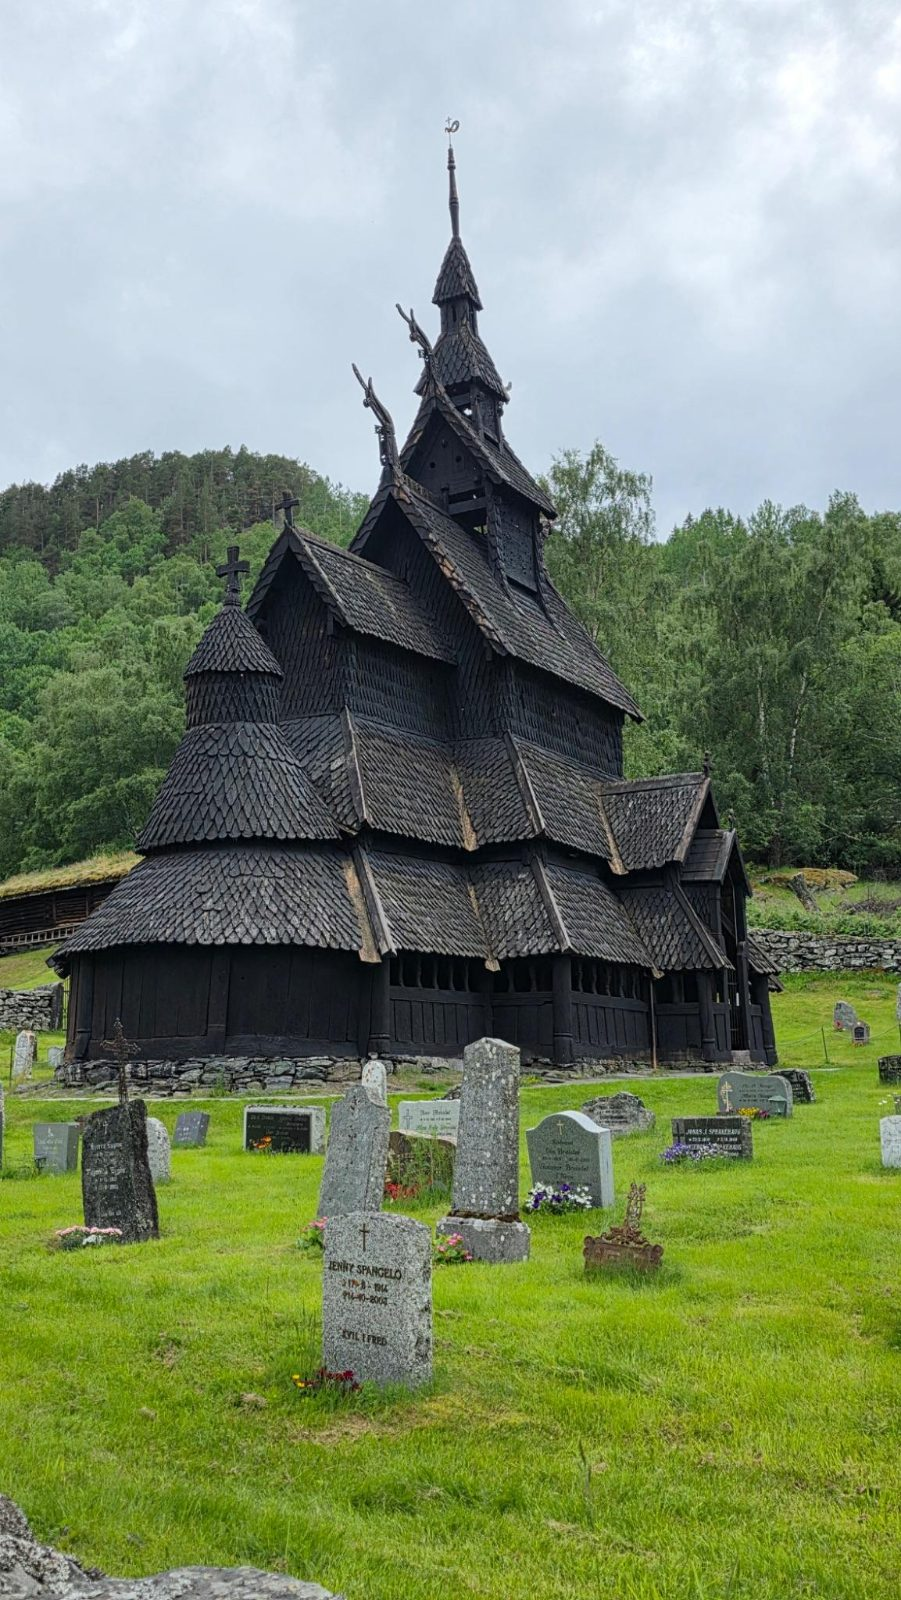
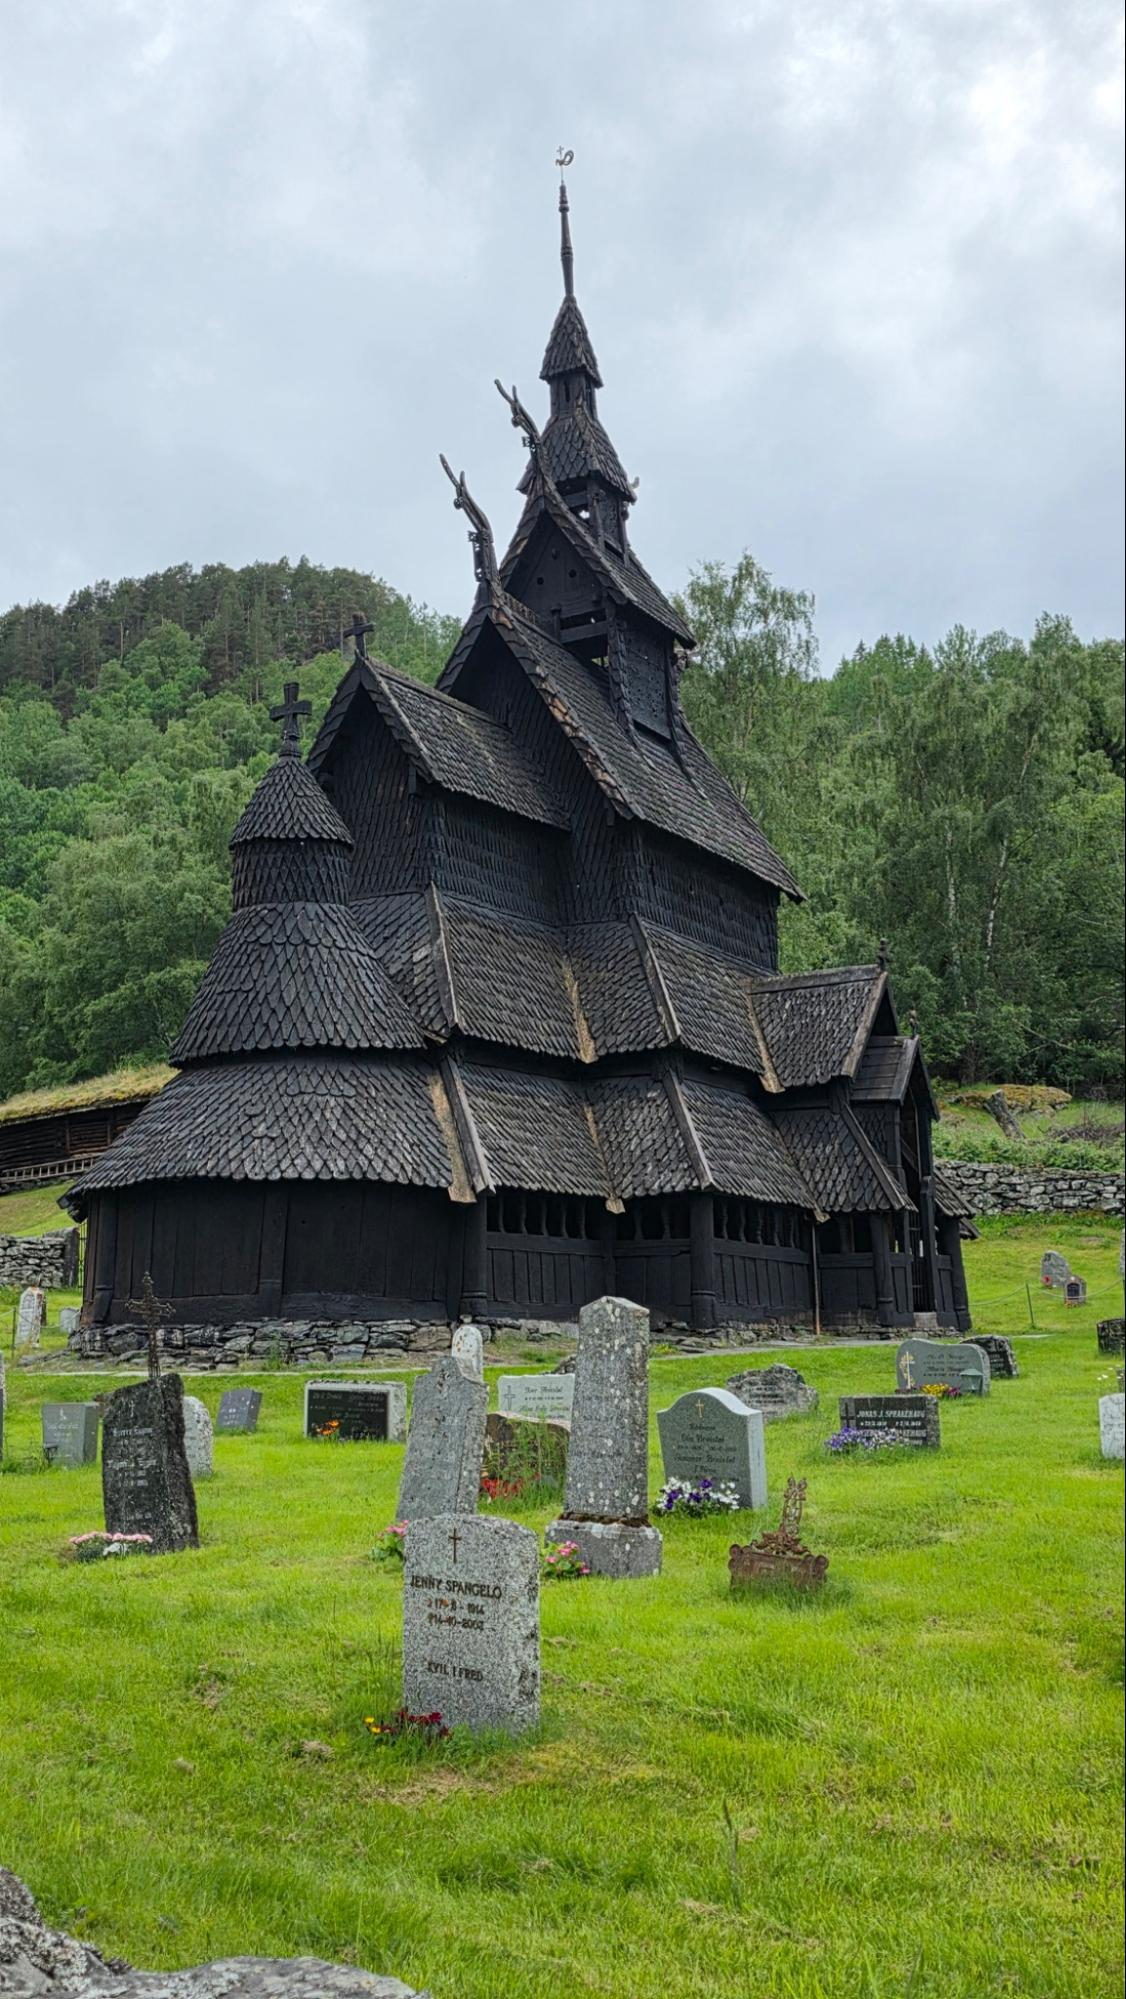
Add real Bergen and Oslo photos, upgrade Borgund church photo
Fills the city-bergen and city-oslo frames on the Norway page with real
trip photos, and replaces the placeholder Borgund Stave Church photo
with the real one (used by both the norway-church frame and postcard-3).
Also stages two extra photos (a flower garden and Yosemite Falls) under
assets/ that don't match an existing Yukon/Norway frame yet.

Claude-Session: https://claude.ai/code/session_01XYH9WAGuWm873uKP95iEbm

Changed region(s): [[0.9945, 0.0, 1.0, 1.0]]

diff --git a/index.html b/index.html
@@ -8,7 +8,7 @@
   <link rel="preconnect" href="https://fonts.googleapis.com" />
   <link rel="preconnect" href="https://fonts.gstatic.com" crossorigin />
   <link href="https://fonts.googleapis.com/css2?family=Fraunces:opsz,wght@9..144,500;9..144,600;9..144,700&family=Inter:wght@400;500;600;700&display=swap" rel="stylesheet" />
-  <link rel="stylesheet" href="css/styles.css?v=202609202033" />
+  <link rel="stylesheet" href="css/styles.css?v=202609202045" />
 </head>
 <body>
 
@@ -253,10 +253,10 @@
     </div>
   </footer>
 
-  <script src="js/storage.js?v=202609202033"></script>
-  <script src="js/content.js?v=202609202033"></script>
-  <script src="js/scroll-reveal.js?v=202609202033"></script>
-  <script src="js/photos.js?v=202609202033"></script>
-  <script src="js/page.js?v=202609202033"></script>
+  <script src="js/storage.js?v=202609202045"></script>
+  <script src="js/content.js?v=202609202045"></script>
+  <script src="js/scroll-reveal.js?v=202609202045"></script>
+  <script src="js/photos.js?v=202609202045"></script>
+  <script src="js/page.js?v=202609202045"></script>
 </body>
 </html>

diff --git a/norway.html b/norway.html
@@ -8,7 +8,7 @@
   <link rel="preconnect" href="https://fonts.googleapis.com" />
   <link rel="preconnect" href="https://fonts.gstatic.com" crossorigin />
   <link href="https://fonts.googleapis.com/css2?family=Fraunces:opsz,wght@9..144,500;9..144,600;9..144,700&family=Inter:wght@400;500;600;700&display=swap" rel="stylesheet" />
-  <link rel="stylesheet" href="css/styles.css?v=202609202033" />
+  <link rel="stylesheet" href="css/styles.css?v=202609202045" />
 </head>
 <body>
 
@@ -715,10 +715,10 @@
     </div>
   </footer>
 
-  <script src="js/storage.js?v=202609202033"></script>
-  <script src="js/content.js?v=202609202033"></script>
-  <script src="js/scroll-reveal.js?v=202609202033"></script>
-  <script src="js/photos.js?v=202609202033"></script>
-  <script src="js/page.js?v=202609202033"></script>
+  <script src="js/storage.js?v=202609202045"></script>
+  <script src="js/content.js?v=202609202045"></script>
+  <script src="js/scroll-reveal.js?v=202609202045"></script>
+  <script src="js/photos.js?v=202609202045"></script>
+  <script src="js/page.js?v=202609202045"></script>
 </body>
 </html>

diff --git a/yukon.html b/yukon.html
@@ -8,7 +8,7 @@
   <link rel="preconnect" href="https://fonts.googleapis.com" />
   <link rel="preconnect" href="https://fonts.gstatic.com" crossorigin />
   <link href="https://fonts.googleapis.com/css2?family=Fraunces:opsz,wght@9..144,500;9..144,600;9..144,700&family=Inter:wght@400;500;600;700&display=swap" rel="stylesheet" />
-  <link rel="stylesheet" href="css/styles.css?v=202609202033" />
+  <link rel="stylesheet" href="css/styles.css?v=202609202045" />
 </head>
 <body>
 
@@ -471,10 +471,10 @@
     </div>
   </footer>
 
-  <script src="js/storage.js?v=202609202033"></script>
-  <script src="js/content.js?v=202609202033"></script>
-  <script src="js/scroll-reveal.js?v=202609202033"></script>
-  <script src="js/photos.js?v=202609202033"></script>
-  <script src="js/page.js?v=202609202033"></script>
+  <script src="js/storage.js?v=202609202045"></script>
+  <script src="js/content.js?v=202609202045"></script>
+  <script src="js/scroll-reveal.js?v=202609202045"></script>
+  <script src="js/photos.js?v=202609202045"></script>
+  <script src="js/page.js?v=202609202045"></script>
 </body>
 </html>
